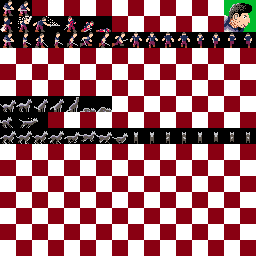
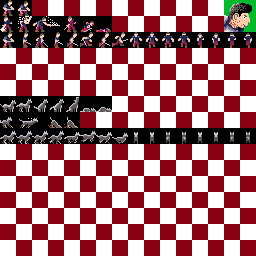
add dig animation for wolf / dog

Changed region(s): [[0.1875, 0.4375, 0.3125, 0.5]]

diff --git a/src/Scripting/WolfBehaviour.py b/src/Scripting/WolfBehaviour.py
@@ -10,6 +10,7 @@ class WolfBehaviour(Script):
         self.walkingSpeed = 1
         self.runningSpeed = 3
         self.speedMag = 0
+        self.defaultAnimation = "idle2" # "idle", "dig", "idle2", "sleep", "howling"
 
     def update(self):
         rigidbody = self.owner.getComponent('RigidBody')
@@ -83,7 +84,7 @@ class WolfBehaviour(Script):
             else:
                 animator.play("run_horizontal", self.flip)
         else:
-            animator.play("idle", self.flip)
+            animator.play(self.defaultAnimation, self.flip)
 
     def getPrincipalDirection(self, v):
         u = v.normalize()
